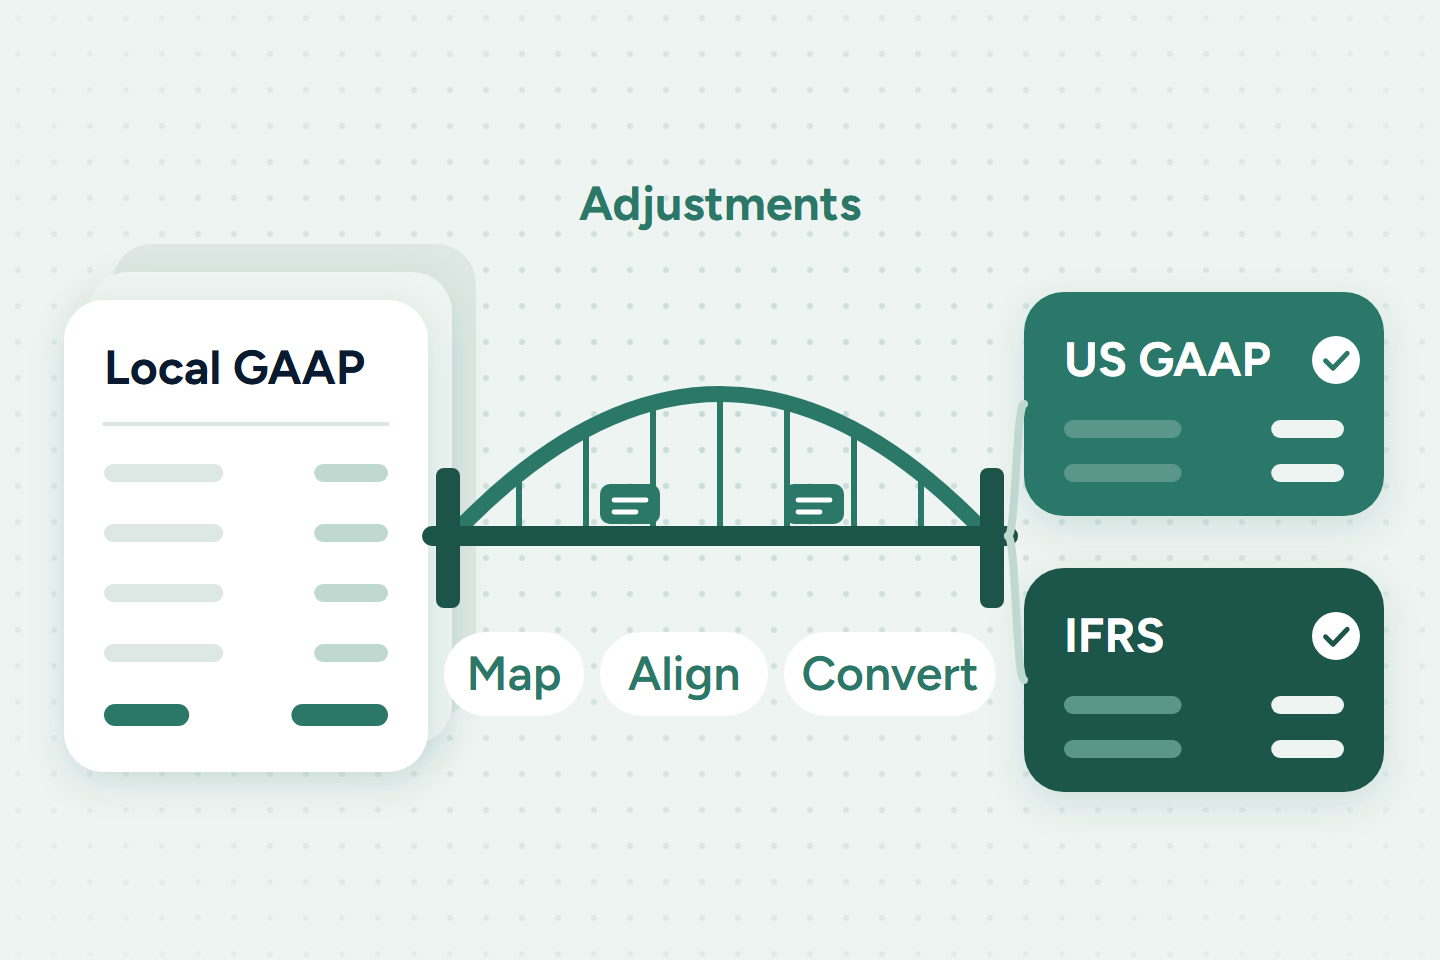
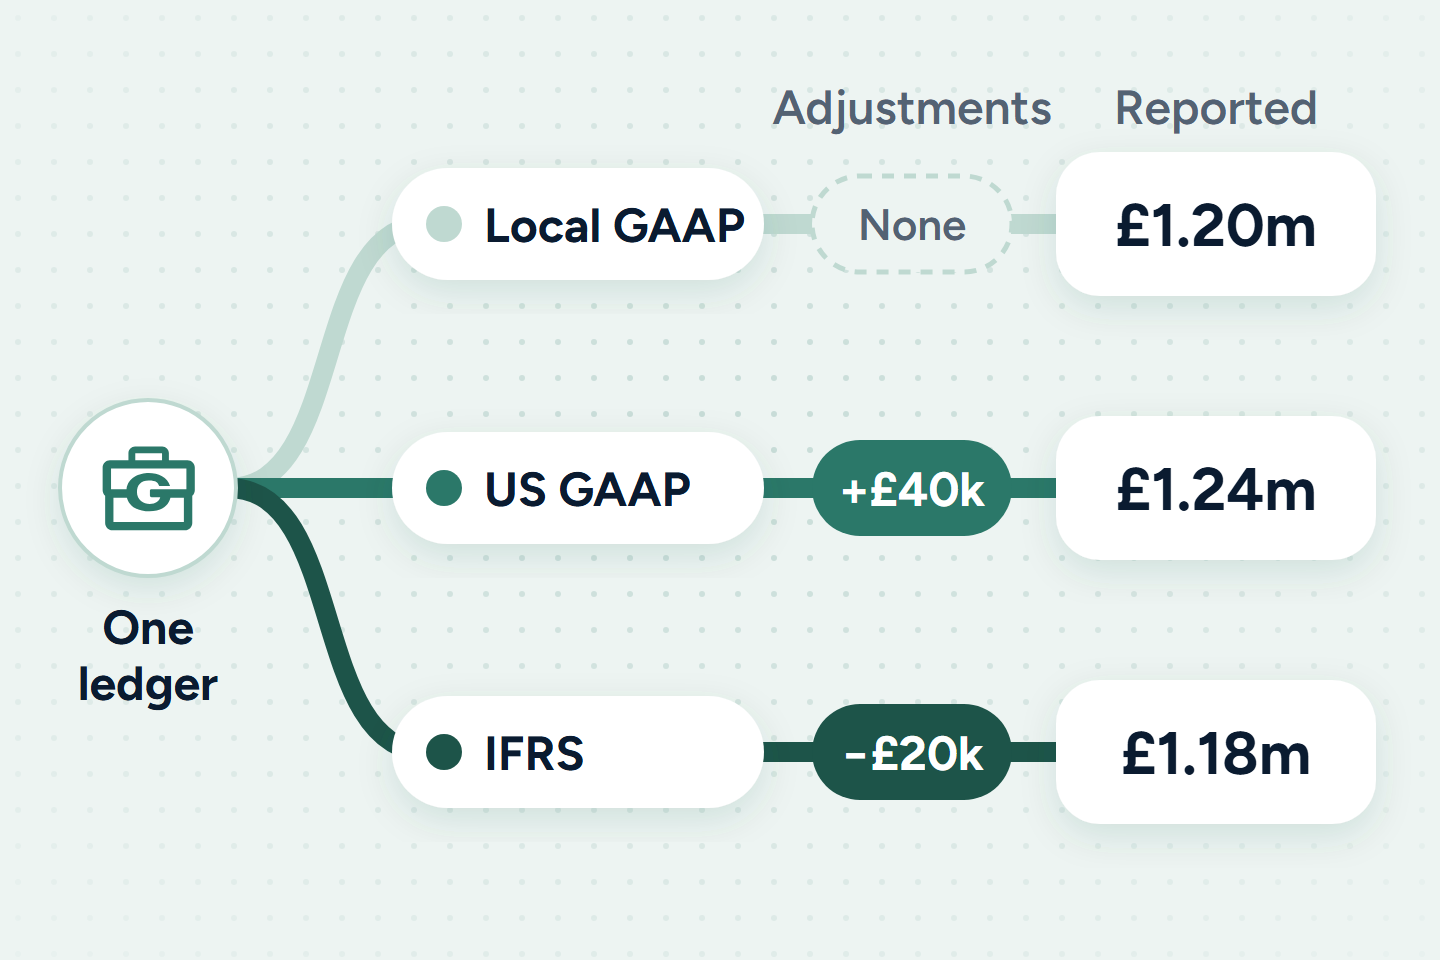
Blog images: GA(A)P cover as parallel-ledger lanes with adjustments

Changed region(s): [[0.0312, 0.1875, 0.9688, 0.875], [0.5312, 0.0938, 0.9375, 0.1562]]

diff --git a/scripts/blog-covers/build.py b/scripts/blog-covers/build.py
@@ -408,59 +408,42 @@ def c_seven_controls():
     return out
 
 
-def ledger_rows(x, y, w, n, bar, val, step=30, total=None):
-    """Abstract ledger lines: label bar left, value bar right."""
-    out = []
-    for k in range(n):
-        ry = y + k * step
-        out += [rect(x, ry, w * 0.42, 9, bar, 4.5, shadow=False),
-                rect(x + w - w * 0.26, ry, w * 0.26, 9, val, 4.5, shadow=False)]
-    if total:
-        ry = y + n * step
-        out += [rect(x, ry, w * 0.30, 11, total, 5.5, shadow=False),
-                rect(x + w - w * 0.34, ry, w * 0.34, 11, total, 5.5, shadow=False)]
-    return out
-
-
 def c_bridging_gaap():
-    # Local GAAP ledgers cross a bridge of adjustments (map, align, convert)
-    # into parallel US GAAP and IFRS group ledgers.
-    deck, a0, a1, top = 250, 226, 494, 108
-    out = [rect(56, 104, 182, 236, RULE, 20, shadow=False),
-           rect(44, 118, 182, 236, TINT, 20, shadow=True),
-           rect(32, 132, 182, 236, WHITE, 20),
-           text(52, 174, "Local GAAP", 24, 700, INK),
-           line(52, 194, 194, 194, RULE, 2)]
-    out += ledger_rows(52, 214, 142, 4, RULE, LINE, 30, TEAL)
-    # bridge: hangers, arch, deck, towers
-    for k in range(1, 8):
-        hx = a0 + k * (a1 - a0) / 8
-        t = (hx - a0) / (a1 - a0)
-        ay = (1 - t) ** 2 * deck + 2 * (1 - t) * t * top + t ** 2 * deck
-        out.append(line(hx, ay + 4, hx, deck, TEAL, 3))
-    out += [f'<path d="M{a0} {deck}Q360 {top} {a1} {deck}" stroke="{TEAL}" stroke-width="8" '
-            f'fill="none" stroke-linecap="round"/>',
-            line(a0 - 10, deck, a1 + 10, deck, TEAL_DEEP, 10),
-            rect(a0 - 8, deck - 34, 12, 70, TEAL_DEEP, 4, shadow=False),
-            rect(a1 - 4, deck - 34, 12, 70, TEAL_DEEP, 4, shadow=False)]
-    for px in (300, 392):  # entries crossing the bridge
-        out += [rect(px, deck - 26, 30, 20, TEAL, 5, shadow=False),
-                line(px + 7, deck - 18, px + 23, deck - 18, WHITE, 2.4),
-                line(px + 7, deck - 12, px + 18, deck - 12, WHITE, 2.4)]
-    out.append(text(360, 92, "Adjustments", 24, 700, TEAL, "middle"))
-    cx = 360 - (70 + 84 + 106 + 16) / 2
-    for s, wch in (("Map", 70), ("Align", 84), ("Convert", 106)):
-        out += [rect(cx, 298, wch, 42, WHITE, 21),
-                text(cx + wch / 2, 327, s, 24, 600, TEAL, "middle")]
-        cx += wch + 8
-    # parallel group ledgers
-    for (yy, fill, label) in ((128, TEAL, "US GAAP"), (266, TEAL_DEEP, "IFRS")):
-        out += [rect(512, yy, 180, 112, fill, 20, shadow=True),
-                text(532, yy + 42, label, 24, 700, WHITE),
-                check(668, yy + 34, 12, WHITE, fill)]
-        out += ledger_rows(532, yy + 64, 140, 2, TEAL_MID, ON_TEAL, 22)
-    out += [curve(a1 + 10, deck, 512, 184, LINE, 4), curve(a1 + 10, deck, 512, 322, LINE, 4)]
-    return ['<g transform="translate(0 18)">'] + out + ["</g>"]
+    # One set of books kept as parallel ledgers: a single GATHER source
+    # branches into Local GAAP, US GAAP and IFRS lanes (transit-map style);
+    # conversion adjustments sit on the lanes and each lane ends in its own
+    # reported figure (1.20 + 0.04 = 1.24, 1.20 - 0.02 = 1.18).
+    node = (74, 244)
+    lanes = [  # y, colour, label, adjustment, result
+        (112, LINE, "Local GAAP", None, "£1.20m"),
+        (244, TEAL, "US GAAP", "+£40k", "£1.24m"),
+        (376, TEAL_DEEP, "IFRS", "−£20k", "£1.18m"),
+    ]
+    out = [text(456, 62, "Adjustments", 24, 600, MUTED, "middle"),
+           text(608, 62, "Reported", 24, 600, MUTED, "middle")]
+    for y, col, *_ in lanes:  # rails first, so everything else sits on them
+        x0 = node[0] + 40
+        out.append(f'<path d="M{x0} {node[1]}C{x0 + 60} {node[1]} {x0 + 40} {y} {x0 + 100} {y}H600" '
+                   f'stroke="{col}" stroke-width="10" stroke-linecap="round" fill="none"/>')
+    out += [f'<circle cx="{node[0]}" cy="{node[1]}" r="44" fill="{WHITE}" filter="url(#sh)"/>',
+            f'<circle cx="{node[0]}" cy="{node[1]}" r="44" stroke="{LINE}" stroke-width="2"/>',
+            gather_mark(node[0] - 24, node[1] - 22, 48),
+            text(node[0], node[1] + 78, "One", 24, 700, INK, "middle"),
+            text(node[0], node[1] + 106, "ledger", 24, 700, INK, "middle")]
+    for y, col, label, adj, val in lanes:
+        out += [rect(196, y - 28, 186, 56, WHITE, 28),
+                f'<circle cx="222" cy="{y}" r="9" fill="{col}"/>',
+                text(242, y + 9, label, 24, 700, INK)]
+        if adj:
+            out += [rect(406, y - 24, 100, 48, col, 24, shadow=False),
+                    text(456, y + 9, adj, 24, 700, WHITE, "middle")]
+        else:
+            out += [rect(406, y - 24, 100, 48, BG, 24, shadow=False,
+                         extra=f'stroke="{LINE}" stroke-width="2.5" stroke-dasharray="6 5"'),
+                    text(456, y + 8, "None", 22, 600, MUTED, "middle")]
+        out += [rect(528, y - 36, 160, 72, WHITE, 22),
+                text(608, y + 11, val, 30, 700, INK, "middle")]
+    return out
 
 
 def c_quadruple_entry():
@@ -541,28 +524,34 @@ def c_chaos_to_control():
     out += [line(lx + 44, ya + ch, lx + 44, yb, SLATE, 3, "3 8"),
             line(rx + 44, ya + ch, rx + 44, yb, ON_TEAL, 4)]
 
-    def card(x, y, label, amt, dark):
-        fill, well, glyph, lc, ac = ((TEAL_DEEP, TEAL, ON_TEAL, ON_TEAL, WHITE) if dark
-                                     else (WHITE, TINT, TEAL, MUTED, INK))
+    def card(x, y, label, amt, side, dark):
+        # side: "Dr" (IC receivable) or "Cr" (IC payable), as on the quadruple-entry cover
+        fill, well, glyph, lc, ac, edge = ((TEAL_DEEP, TEAL, ON_TEAL, ON_TEAL, WHITE, TEAL_MID) if dark
+                                           else (WHITE, TINT, TEAL, MUTED, INK, LINE))
+        tx, ty = x + cw - 62, y + 14
+        tag = (rect(tx, ty, 46, 30, TEAL, 9, shadow=False) + text(tx + 23, ty + 22, side, 20, 700, WHITE, "middle")
+               if side == "Dr" else
+               f'<rect x="{tx+1}" y="{ty+1}" width="44" height="28" rx="8" fill="{fill}" stroke="{edge}" '
+               f'stroke-width="2"/>' + text(tx + 23, ty + 22, side, 20, 700, ON_TEAL if dark else TEAL, "middle"))
         return (rect(x, y, cw, ch, fill, 22, shadow=True)
                 + f'<circle cx="{x+44}" cy="{y+ch/2}" r="26" fill="{well}"/>'
                 + building(x + 44, y + ch / 2, 0.86, glyph)
                 + text(x + 84, y + 37, label, 22, 600, lc)
-                + text(x + 84, y + 70, amt, 30, 700, ac))
+                + text(x + 84, y + 70, amt, 30, 700, ac) + tag)
 
     mid = (ya + ch + yb) / 2
-    out += [card(lx, ya, "Entity A", "£10,000", False),
-            card(lx, yb, "Entity B", "£9,850", False),
-            # floating mismatch flag breaking the card corner
-            f'<circle cx="{lx+cw-8}" cy="{yb+8}" r="17" fill="{INK}" stroke="{BG}" stroke-width="4"/>',
-            text(lx + cw - 8, yb + 16, "!", 24, 700, WHITE, "middle"),
+    out += [card(lx, ya, "Entity A", "£10,000", "Dr", False),
+            card(lx, yb, "Entity B", "£9,850", "Cr", False),
+            # mismatch flag beside the short amount
+            f'<circle cx="{lx+212}" cy="{yb+60}" r="14" fill="{INK}"/>',
+            text(lx + 212, yb + 67, "!", 20, 700, WHITE, "middle"),
             f'<circle cx="{lx+44}" cy="{mid}" r="20" fill="{BG}" stroke="{SLATE}" stroke-width="3" '
             f'stroke-dasharray="5 4"/>',
             f'<path d="M{lx+36} {mid-4}h16M{lx+36} {mid+4}h16M{lx+48} {mid-10}l-8 20" stroke="{MUTED}" '
             f'stroke-width="2.8" stroke-linecap="round"/>',
             text(lx + 76, mid + 8, "£150 gap", 24, 700, MUTED),
-            card(rx, ya, "Entity A", "£10,000", True),
-            card(rx, yb, "Entity B", "£10,000", True),
+            card(rx, ya, "Entity A", "£10,000", "Dr", True),
+            card(rx, yb, "Entity B", "£10,000", "Cr", True),
             f'<circle cx="{rx+44}" cy="{mid}" r="20" fill="{WHITE}" stroke="{TEAL}" stroke-width="4"/>',
             check(rx + 44, mid, 15, WHITE, TEAL),
             text(rx + 76, mid + 8, "Matched", 24, 700, WHITE)]
@@ -657,33 +646,32 @@ def c_multi_entity_growth():
     # with entity tiles and a dashed trend rises over them. Right: GATHER (hub
     # on the panel edge) turns that into one group view: a mini dashboard (the
     # charts of the original artwork) over the four group responsibilities.
-    base, tile, pitch = 412, 36, 44
-    out = [text(36, 84, "Entities", 28, 700, INK),
-           line(20, base, 320, base, LINE, 4)]
+    base, tile, pitch = 416, 38, 46
+    out = [text(28, 84, "Entities", 28, 700, INK),
+           line(12, base, 324, base, LINE, 4)]
     tops = []
     for k, n in enumerate((1, 3, 8)):
-        bx = 28 + k * 96
+        bx = 20 + k * 100
         rows = (n + 1) // 2
         top = base - rows * pitch - 4
-        tops.append((bx + 46, top))
-        out.append(rect(bx, top, 92, base - top, WHITE, 16, shadow=True))
+        tops.append((bx + 48, top))
+        out.append(rect(bx, top, 96, base - top, WHITE, 16, shadow=True))
         for i in range(n):
             r, c = divmod(i, 2)
             tx = bx + 6 + c * pitch
             if n - i == 1 and n % 2:          # odd last tile sits centred
-                tx = bx + 28
+                tx = bx + 29
             ty = base - 4 - tile - r * pitch
-            out += [rect(tx, ty, tile, tile, TINT, 10, shadow=False),
-                    building(tx + tile / 2, ty + tile / 2, 0.62)]
-        out.append(text(bx + 46, top - 14, str(n), 34, 700, TEAL, "middle"))
-    # rising trend over the counts
-    pts = [(cx, t - 58) for cx, t in tops]
-    d = f"M{pts[0][0]} {pts[0][1]}" + "".join(f"L{x} {y}" for x, y in pts[1:])
-    ex, ey = pts[-1]
-    out += [f'<path d="{d}" stroke="{TEAL_MID}" stroke-width="3" stroke-dasharray="2 8" '
-            f'stroke-linecap="round" stroke-linejoin="round"/>',
-            f'<path d="M{ex - 14} {ey - 2}L{ex + 2} {ey - 8}L{ex - 2} {ey + 9}" stroke="{TEAL_MID}" '
-            f'stroke-width="3" stroke-linecap="round" stroke-linejoin="round"/>']
+            new = n == 8 and i >= 6           # the latest additions
+            out += [rect(tx, ty, tile, tile, TEAL if new else TINT, 10, shadow=False),
+                    building(tx + tile / 2, ty + tile / 2, 0.64, WHITE if new else TEAL)]
+        out.append(text(bx + 48, top - 14, str(n), 36, 700, TEAL, "middle"))
+    # rising trend over the counts: smooth dotted curve with an arrowhead
+    (x0, t0), (x1, t1), (x2, t2) = [(cx, t - 60) for cx, t in tops]
+    out += [f'<path d="M{x0} {t0}Q{x1 - 20} {t1 + 10} {x1} {t1}T{x2 + 10} {t2 - 14}" '
+            f'stroke="{TEAL_MID}" stroke-width="3.2" stroke-dasharray="1 9" stroke-linecap="round"/>',
+            f'<path d="M{x2 - 4} {t2 - 18}L{x2 + 12} {t2 - 16}L{x2 + 8} {t2 + 0}" stroke="{TEAL_MID}" '
+            f'stroke-width="3.2" stroke-linecap="round" stroke-linejoin="round"/>']
 
     # group view panel with a lighter white dot texture and a deeper corner
     px, py, pw, ph = 396, 36, 292, 408
@@ -694,6 +682,8 @@ def c_multi_entity_growth():
             f'<g clip-path="url(#gv)"><path d="M600 {py}H{px + pw}V{py + ph}H500z" fill="{TEAL_DEEP}" opacity=".3"/>'
             f'<rect x="{px}" y="{py}" width="{pw}" height="{ph}" fill="url(#dotsw)" opacity=".13"/></g>',
             text(424, 86, "Group view", 28, 700, WHITE)]
+    for k in range(3):  # window chrome, so the panel reads as a product screen
+        out.append(f'<circle cx="{620 + k * 16}" cy="77" r="5" fill="{WHITE}" opacity=".35"/>')
     # mini dashboard: donut + rising area chart
     out.append(rect(420, 104, 244, 100, WHITE, 16))
     dcx, dcy, dr = 466, 154, 26
@@ -727,9 +717,10 @@ def c_multi_entity_growth():
                 control_glyph(kind, 445, cy),
                 text(472, cy + 9, label, 26, 600, WHITE)]
     # GATHER hub on the panel edge, fed by the growing group
-    hx, hy = 355, 300
-    out += [line(312, hy, px, hy, LINE, 4),
-            f'<circle cx="{hx}" cy="{hy}" r="30" fill="{WHITE}" filter="url(#sh)"/>',
+    hx, hy = 356, 300
+    out += [line(316, hy, px, hy, LINE, 4),
+            f'<circle cx="{hx}" cy="{hy}" r="38" stroke="{LINE}" stroke-width="2" stroke-dasharray="3 6"/>',
+            f'<circle cx="{hx}" cy="{hy}" r="29" fill="{WHITE}" filter="url(#sh)"/>',
             gather_mark(hx - 18, hy - 16.7, 36)]
     return out
 
